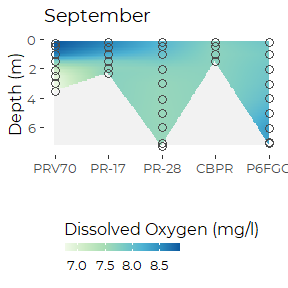
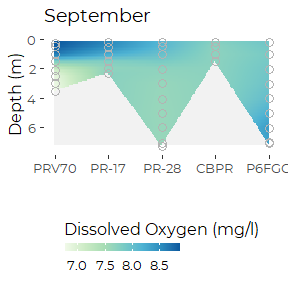
Revise colors for some symbols for consistency

diff --git a/Graphics/DEP_Preumpscot_Graphics.md b/Graphics/DEP_Preumpscot_Graphics.md
@@ -376,7 +376,7 @@ ptsmooth(tmp1, .x  = sitenum,  .y  = depth,  .val = do,
                                barheight = unit(0.2, 'cm'))) +
   
   geom_point(mapping = aes(sitenum, depth), data= tmp1,
-             shape = 21, fill = NA, color = 'gray30', size = 3) +
+             shape = 21, fill = NA, color = 'gray70', size = 3) +
   scale_x_continuous(breaks = 1:5, 
                      labels = c('PRV70', 'PR-17', 'PR-28', 'CBPR', 'P6FGG')) +
   ylim(7.5,0) +
@@ -480,7 +480,7 @@ ptsmooth(tmp2, .x  = sitenum,  .y  = depth,  .val = do,
                                barheight = unit(0.2, 'cm'))) +
   
   geom_point(mapping = aes(sitenum, depth), data= tmp2,
-             shape = 21, fill = NA, color = 'gray30', size = 3) +
+             shape = 21, fill = NA, color = 'gray70', size = 3) +
   scale_x_continuous(breaks = 1:5, 
                      labels = c('PRV70', 'PR-17', 'PR-28', 'CBPR', 'P6FGG')) +
   ylim(7.5,0) +
@@ -510,7 +510,7 @@ ptsmooth(tmp2, .x  = sitenum,  .y  = depth,  .val = do,
                                barheight = unit(0.2, 'cm'))) +
   
   geom_point(mapping = aes(sitenum, depth), data= tmp2,
-             shape = 21, fill = NA, color = 'gray30', size = 3) +
+             shape = 21, fill = NA, color = 'gray70', size = 3) +
   scale_x_continuous(breaks = 1:5, 
                      labels = c('PRV70', 'PR-17', 'PR-28', 'CBPR', 'P6FGG')) +
   ylim(7.5,0) +
